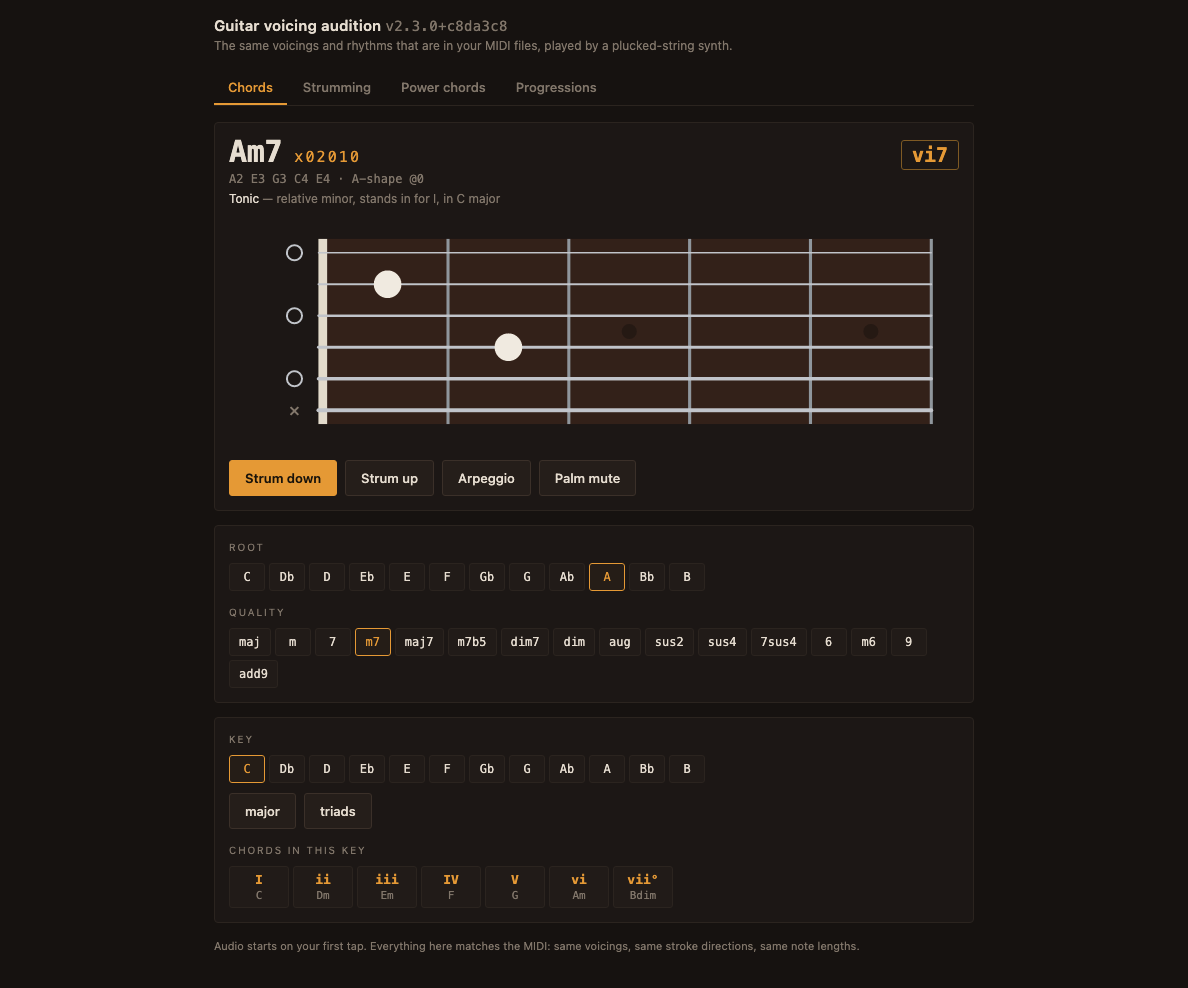
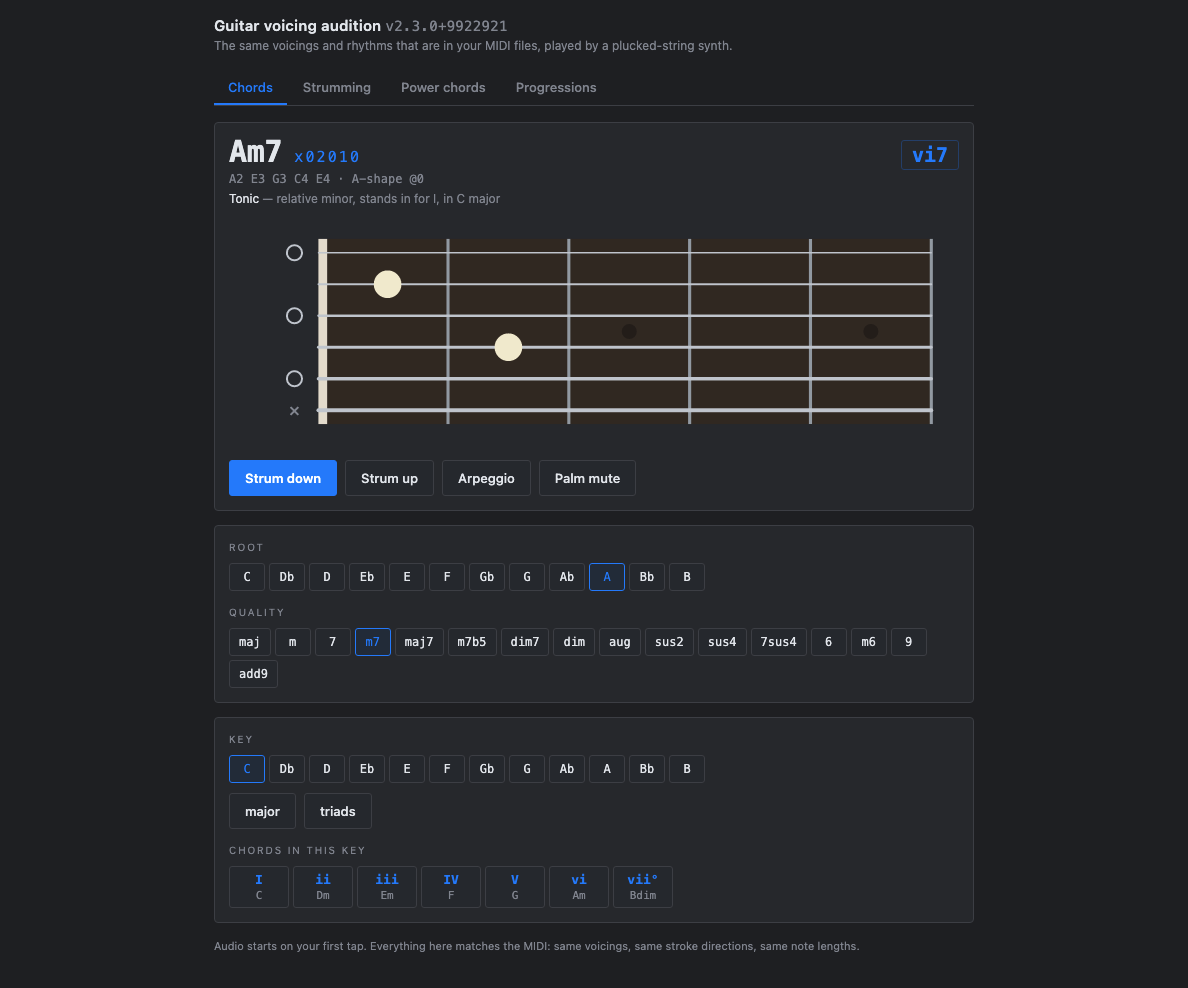
Restyle web tool to match the REAPER 'Logic' look
The redesign to the neutral-grey + blue accent look-and-feel had only
been applied to the REAPER script; the browser tool was still on the old
warm brown/orange palette. Bring web_template.html in line with the
REAPER palette: neutral dark-grey chrome, blue (#2884FB) accent, white
text on accent buttons, wood fretboard kept to match. Rebuilt both
deliverables and regenerated the README screenshots from the new build.

diff --git a/web/guitar-audition.html b/web/guitar-audition.html
@@ -2,9 +2,9 @@
 <meta name="viewport" content="width=device-width, initial-scale=1">
 <style>
   :root{
-    --wood:#3A241A; --wood-dk:#2A1911; --bg:#16110E; --panel:#1E1815; --line:#312822;
-    --nickel:#9AA0A6; --string:#C8CBD0; --amber:#E8A33D; --amber-dim:#8a6528;
-    --ink:#E9E1D6; --mute:#8C8175; --mono:ui-monospace,"SF Mono",Menlo,Consolas,monospace;
+    --wood:#372D25; --wood-dk:#241C17; --bg:#212226; --panel:#2B2D32; --line:#44474D;
+    --nickel:#9CA3AB; --string:#C6CBD2; --amber:#2884FB; --amber-dim:#284773;
+    --ink:#E6E9EE; --mute:#8B8F99; --mono:ui-monospace,"SF Mono",Menlo,Consolas,monospace;
   }
   *{box-sizing:border-box}
   body{margin:0;background:var(--bg);color:var(--ink);
@@ -22,10 +22,10 @@
   .panel{background:var(--panel);border:1px solid var(--line);border-radius:4px;padding:14px;
          margin-bottom:14px}
   .chips{display:flex;flex-wrap:wrap;gap:4px}
-  .chip{background:#241D19;border:1px solid var(--line);color:var(--ink);border-radius:3px;
+  .chip{background:#2A2D33;border:1px solid var(--line);color:var(--ink);border-radius:3px;
         padding:6px 9px;font:500 12px var(--mono);cursor:pointer;min-width:36px}
-  .chip:hover{border-color:#4a3d34}
-  .chip[aria-pressed=true]{border-color:var(--amber);color:var(--amber);background:#2A2018}
+  .chip:hover{border-color:#565A63}
+  .chip[aria-pressed=true]{border-color:var(--amber);color:var(--amber);background:#263140}
   .head{display:flex;align-items:baseline;gap:12px;flex-wrap:wrap;margin-bottom:2px}
   .name{font:600 30px/1 var(--mono);letter-spacing:-.01em}
   .dia{font:15px var(--mono);color:var(--amber);letter-spacing:.14em}
@@ -35,38 +35,38 @@
   .func{font-size:12px;color:var(--ink);margin-bottom:12px}
   .func span{color:var(--mute)}
   .dchip{display:flex;flex-direction:column;align-items:center;gap:2px;
-         background:#241D19;border:1px solid var(--line);border-radius:3px;
+         background:#2A2D33;border:1px solid var(--line);border-radius:3px;
          padding:5px 8px;cursor:pointer;min-width:60px}
-  .dchip:hover{border-color:#4a3d34}
-  .dchip[aria-pressed=true]{border-color:var(--amber);background:#2A2018}
+  .dchip:hover{border-color:#565A63}
+  .dchip[aria-pressed=true]{border-color:var(--amber);background:#263140}
   .dchip b{font:600 13px var(--mono);color:var(--amber)}
   .dchip span{font:11px var(--mono);color:var(--mute)}
   svg{width:100%;height:auto;display:block;touch-action:manipulation}
   .str{stroke:var(--string);transition:stroke .06s,filter .06s}
   .str.lit{stroke:var(--amber);filter:drop-shadow(0 0 4px var(--amber))}
-  .dot{fill:#F2EDE4;transition:fill .06s}
+  .dot{fill:#F2ECD2;transition:fill .06s}
   .dot.lit{fill:var(--amber)}
   .row{display:flex;gap:8px;flex-wrap:wrap;align-items:center;margin-top:12px}
-  .btn{background:#2A211B;border:1px solid #43372E;color:var(--ink);border-radius:3px;
+  .btn{background:#2A2D33;border:1px solid #44474D;color:var(--ink);border-radius:3px;
        padding:9px 15px;font:500 13px system-ui;cursor:pointer}
   .btn:hover{border-color:var(--amber-dim)}
-  .btn.primary{background:var(--amber);border-color:var(--amber);color:#1A1206;font-weight:600}
+  .btn.primary{background:var(--amber);border-color:var(--amber);color:#FFFFFF;font-weight:600}
   .toggle[aria-pressed=true]{border-color:var(--amber);color:var(--amber)}
   label.ctl{display:flex;align-items:center;gap:8px;font-size:12px;color:var(--mute)}
   input[type=range]{accent-color:var(--amber);width:130px}
   .pat{display:grid;grid-template-columns:104px 1fr;gap:10px;align-items:center;
        padding:7px 8px;border-radius:3px;cursor:pointer;border:1px solid transparent}
-  .pat:hover{background:#241D19}
-  .pat[aria-pressed=true]{border-color:var(--amber-dim);background:#241D19}
+  .pat:hover{background:#2A2D33}
+  .pat[aria-pressed=true]{border-color:var(--amber-dim);background:#2A2D33}
   .pat-name{font:11px var(--mono);color:var(--ink);text-align:left}
   .grid{display:flex;gap:2px}
-  .cell{flex:1;height:26px;border-radius:2px;background:#241D19;border:1px solid #2E2621;
+  .cell{flex:1;height:26px;border-radius:2px;background:#2A2D33;border:1px solid #33373D;
         display:flex;align-items:center;justify-content:center;
         font:10px var(--mono);color:var(--mute)}
-  .cell.beat{border-color:#3d332b}
-  .cell.hit{background:var(--amber-dim);color:#F5E7CF;border-color:#a97c33}
-  .cell.hit.open{background:var(--amber);color:#1A1206;font-weight:700}
-  .cell.hit.ghost{background:#332A22;color:#7d7166}
+  .cell.beat{border-color:#44474D}
+  .cell.hit{background:var(--amber-dim);color:#DCE8FB;border-color:#3E6DA8}
+  .cell.hit.open{background:var(--amber);color:#FFFFFF;font-weight:700}
+  .cell.hit.ghost{background:#2E3138;color:#8B8F99}
   .cell.now{outline:2px solid var(--amber);outline-offset:-2px}
   .note{color:var(--mute);font-size:11px;margin-top:10px;line-height:1.6}
   @media (max-width:520px){
@@ -77,7 +77,7 @@
 </style>
 
 <div class="wrap">
-  <h1>Guitar voicing audition <span style="font-size:14px;color:var(--mute);font-family:var(--mono);font-weight:normal">v2.3.0+c8da3c8</span></h1>
+  <h1>Guitar voicing audition <span style="font-size:14px;color:var(--mute);font-family:var(--mono);font-weight:normal">v2.3.0+9922921</span></h1>
   <p class="sub">The same voicings and rhythms that are in your MIDI files, played by a plucked-string synth.</p>
 
   <div class="tabs" role="tablist">
@@ -624,7 +624,7 @@ function buildProgList(){
     const row=document.createElement('div');
     row.setAttribute('role','button'); row.tabIndex=0;
     row.style.cssText='padding:7px 12px;cursor:pointer;border-bottom:1px solid var(--line);'
-      +'font-size:13px;'+(idx===pgSel?'background:var(--amber-dim,#3a2b1f)':'');
+      +'font-size:13px;'+(idx===pgSel?'background:var(--amber-dim,#284773)':'');
     const label = p.name ? `<b style="color:var(--ink)">${p.name}</b> ` : '';
     row.innerHTML = label + `<span style="font-family:var(--mono);color:var(--mute)">`
       + cs.map(c=>c.label).join(' - ') + `</span>`;

diff --git a/src/web_template.html b/src/web_template.html
@@ -2,9 +2,9 @@
 <meta name="viewport" content="width=device-width, initial-scale=1">
 <style>
   :root{
-    --wood:#3A241A; --wood-dk:#2A1911; --bg:#16110E; --panel:#1E1815; --line:#312822;
-    --nickel:#9AA0A6; --string:#C8CBD0; --amber:#E8A33D; --amber-dim:#8a6528;
-    --ink:#E9E1D6; --mute:#8C8175; --mono:ui-monospace,"SF Mono",Menlo,Consolas,monospace;
+    --wood:#372D25; --wood-dk:#241C17; --bg:#212226; --panel:#2B2D32; --line:#44474D;
+    --nickel:#9CA3AB; --string:#C6CBD2; --amber:#2884FB; --amber-dim:#284773;
+    --ink:#E6E9EE; --mute:#8B8F99; --mono:ui-monospace,"SF Mono",Menlo,Consolas,monospace;
   }
   *{box-sizing:border-box}
   body{margin:0;background:var(--bg);color:var(--ink);
@@ -22,10 +22,10 @@
   .panel{background:var(--panel);border:1px solid var(--line);border-radius:4px;padding:14px;
          margin-bottom:14px}
   .chips{display:flex;flex-wrap:wrap;gap:4px}
-  .chip{background:#241D19;border:1px solid var(--line);color:var(--ink);border-radius:3px;
+  .chip{background:#2A2D33;border:1px solid var(--line);color:var(--ink);border-radius:3px;
         padding:6px 9px;font:500 12px var(--mono);cursor:pointer;min-width:36px}
-  .chip:hover{border-color:#4a3d34}
-  .chip[aria-pressed=true]{border-color:var(--amber);color:var(--amber);background:#2A2018}
+  .chip:hover{border-color:#565A63}
+  .chip[aria-pressed=true]{border-color:var(--amber);color:var(--amber);background:#263140}
   .head{display:flex;align-items:baseline;gap:12px;flex-wrap:wrap;margin-bottom:2px}
   .name{font:600 30px/1 var(--mono);letter-spacing:-.01em}
   .dia{font:15px var(--mono);color:var(--amber);letter-spacing:.14em}
@@ -35,38 +35,38 @@
   .func{font-size:12px;color:var(--ink);margin-bottom:12px}
   .func span{color:var(--mute)}
   .dchip{display:flex;flex-direction:column;align-items:center;gap:2px;
-         background:#241D19;border:1px solid var(--line);border-radius:3px;
+         background:#2A2D33;border:1px solid var(--line);border-radius:3px;
          padding:5px 8px;cursor:pointer;min-width:60px}
-  .dchip:hover{border-color:#4a3d34}
-  .dchip[aria-pressed=true]{border-color:var(--amber);background:#2A2018}
+  .dchip:hover{border-color:#565A63}
+  .dchip[aria-pressed=true]{border-color:var(--amber);background:#263140}
   .dchip b{font:600 13px var(--mono);color:var(--amber)}
   .dchip span{font:11px var(--mono);color:var(--mute)}
   svg{width:100%;height:auto;display:block;touch-action:manipulation}
   .str{stroke:var(--string);transition:stroke .06s,filter .06s}
   .str.lit{stroke:var(--amber);filter:drop-shadow(0 0 4px var(--amber))}
-  .dot{fill:#F2EDE4;transition:fill .06s}
+  .dot{fill:#F2ECD2;transition:fill .06s}
   .dot.lit{fill:var(--amber)}
   .row{display:flex;gap:8px;flex-wrap:wrap;align-items:center;margin-top:12px}
-  .btn{background:#2A211B;border:1px solid #43372E;color:var(--ink);border-radius:3px;
+  .btn{background:#2A2D33;border:1px solid #44474D;color:var(--ink);border-radius:3px;
        padding:9px 15px;font:500 13px system-ui;cursor:pointer}
   .btn:hover{border-color:var(--amber-dim)}
-  .btn.primary{background:var(--amber);border-color:var(--amber);color:#1A1206;font-weight:600}
+  .btn.primary{background:var(--amber);border-color:var(--amber);color:#FFFFFF;font-weight:600}
   .toggle[aria-pressed=true]{border-color:var(--amber);color:var(--amber)}
   label.ctl{display:flex;align-items:center;gap:8px;font-size:12px;color:var(--mute)}
   input[type=range]{accent-color:var(--amber);width:130px}
   .pat{display:grid;grid-template-columns:104px 1fr;gap:10px;align-items:center;
        padding:7px 8px;border-radius:3px;cursor:pointer;border:1px solid transparent}
-  .pat:hover{background:#241D19}
-  .pat[aria-pressed=true]{border-color:var(--amber-dim);background:#241D19}
+  .pat:hover{background:#2A2D33}
+  .pat[aria-pressed=true]{border-color:var(--amber-dim);background:#2A2D33}
   .pat-name{font:11px var(--mono);color:var(--ink);text-align:left}
   .grid{display:flex;gap:2px}
-  .cell{flex:1;height:26px;border-radius:2px;background:#241D19;border:1px solid #2E2621;
+  .cell{flex:1;height:26px;border-radius:2px;background:#2A2D33;border:1px solid #33373D;
         display:flex;align-items:center;justify-content:center;
         font:10px var(--mono);color:var(--mute)}
-  .cell.beat{border-color:#3d332b}
-  .cell.hit{background:var(--amber-dim);color:#F5E7CF;border-color:#a97c33}
-  .cell.hit.open{background:var(--amber);color:#1A1206;font-weight:700}
-  .cell.hit.ghost{background:#332A22;color:#7d7166}
+  .cell.beat{border-color:#44474D}
+  .cell.hit{background:var(--amber-dim);color:#DCE8FB;border-color:#3E6DA8}
+  .cell.hit.open{background:var(--amber);color:#FFFFFF;font-weight:700}
+  .cell.hit.ghost{background:#2E3138;color:#8B8F99}
   .cell.now{outline:2px solid var(--amber);outline-offset:-2px}
   .note{color:var(--mute);font-size:11px;margin-top:10px;line-height:1.6}
   @media (max-width:520px){
@@ -624,7 +624,7 @@ function buildProgList(){
     const row=document.createElement('div');
     row.setAttribute('role','button'); row.tabIndex=0;
     row.style.cssText='padding:7px 12px;cursor:pointer;border-bottom:1px solid var(--line);'
-      +'font-size:13px;'+(idx===pgSel?'background:var(--amber-dim,#3a2b1f)':'');
+      +'font-size:13px;'+(idx===pgSel?'background:var(--amber-dim,#284773)':'');
     const label = p.name ? `<b style="color:var(--ink)">${p.name}</b> ` : '';
     row.innerHTML = label + `<span style="font-family:var(--mono);color:var(--mute)">`
       + cs.map(c=>c.label).join(' - ') + `</span>`;
